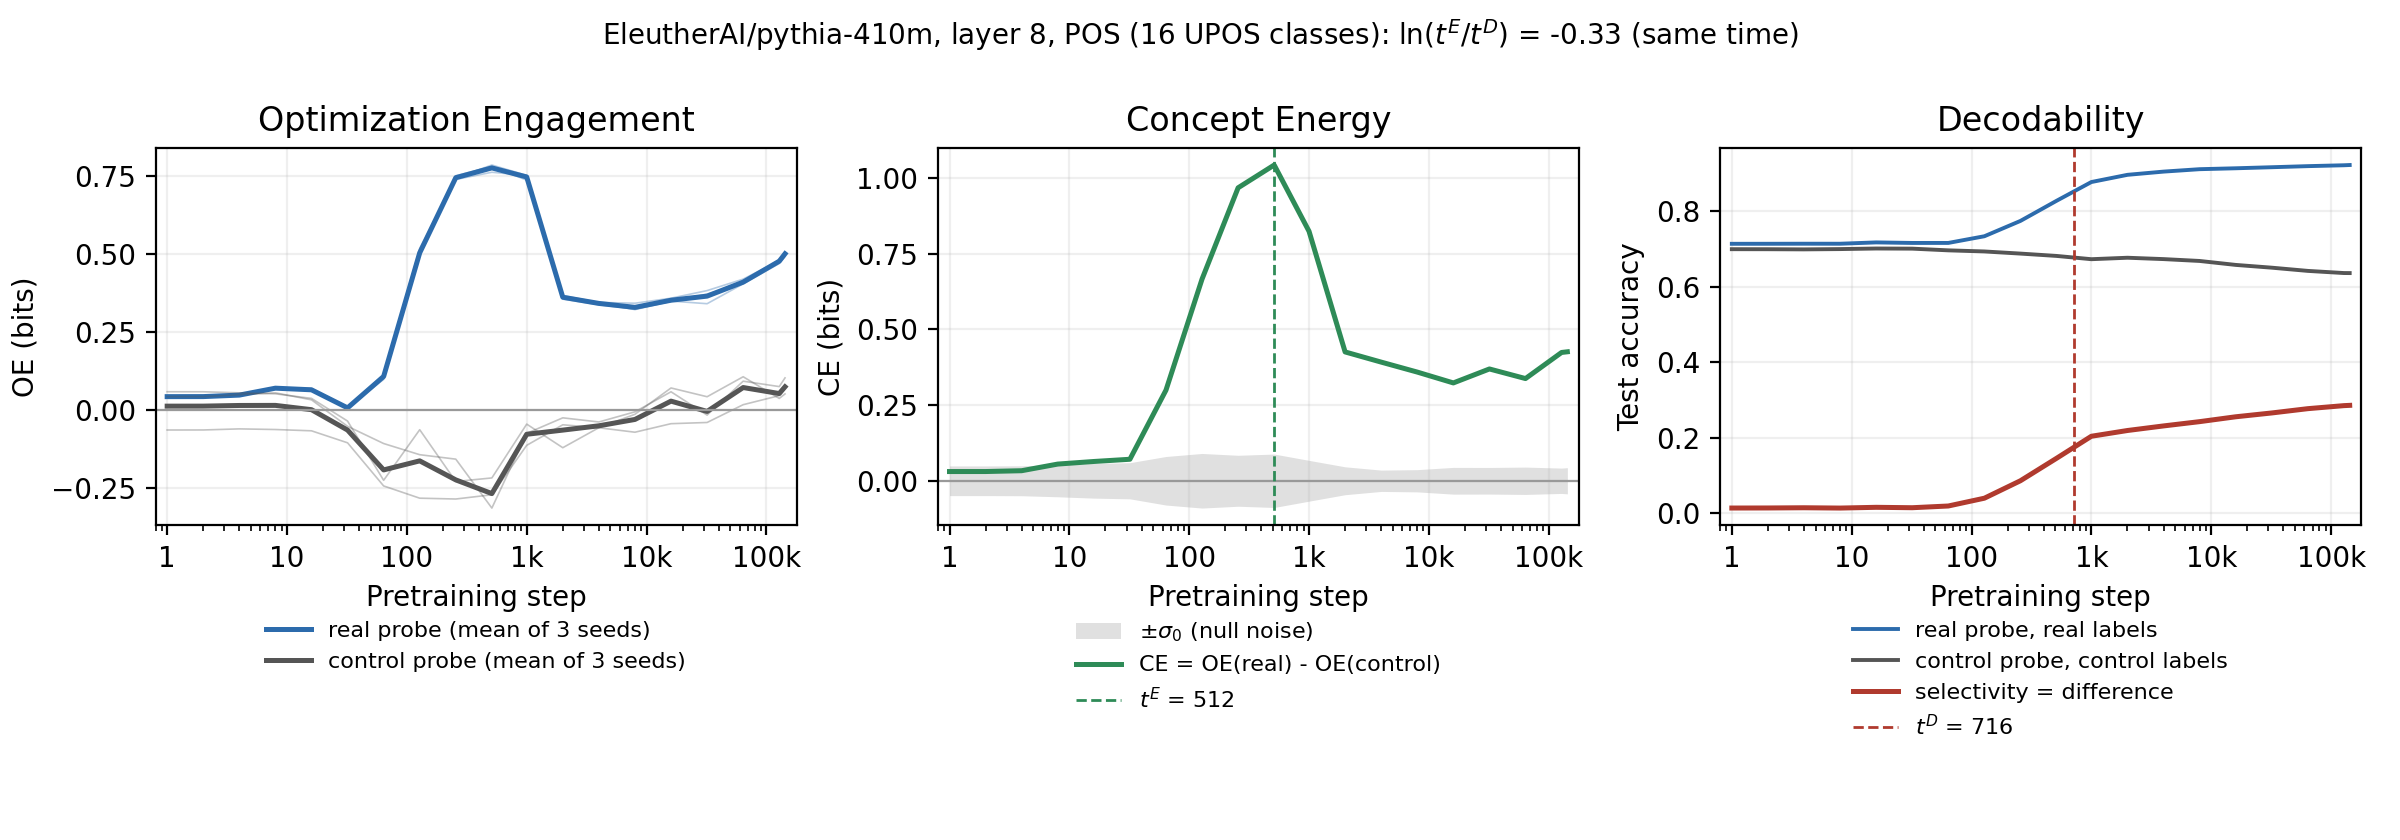
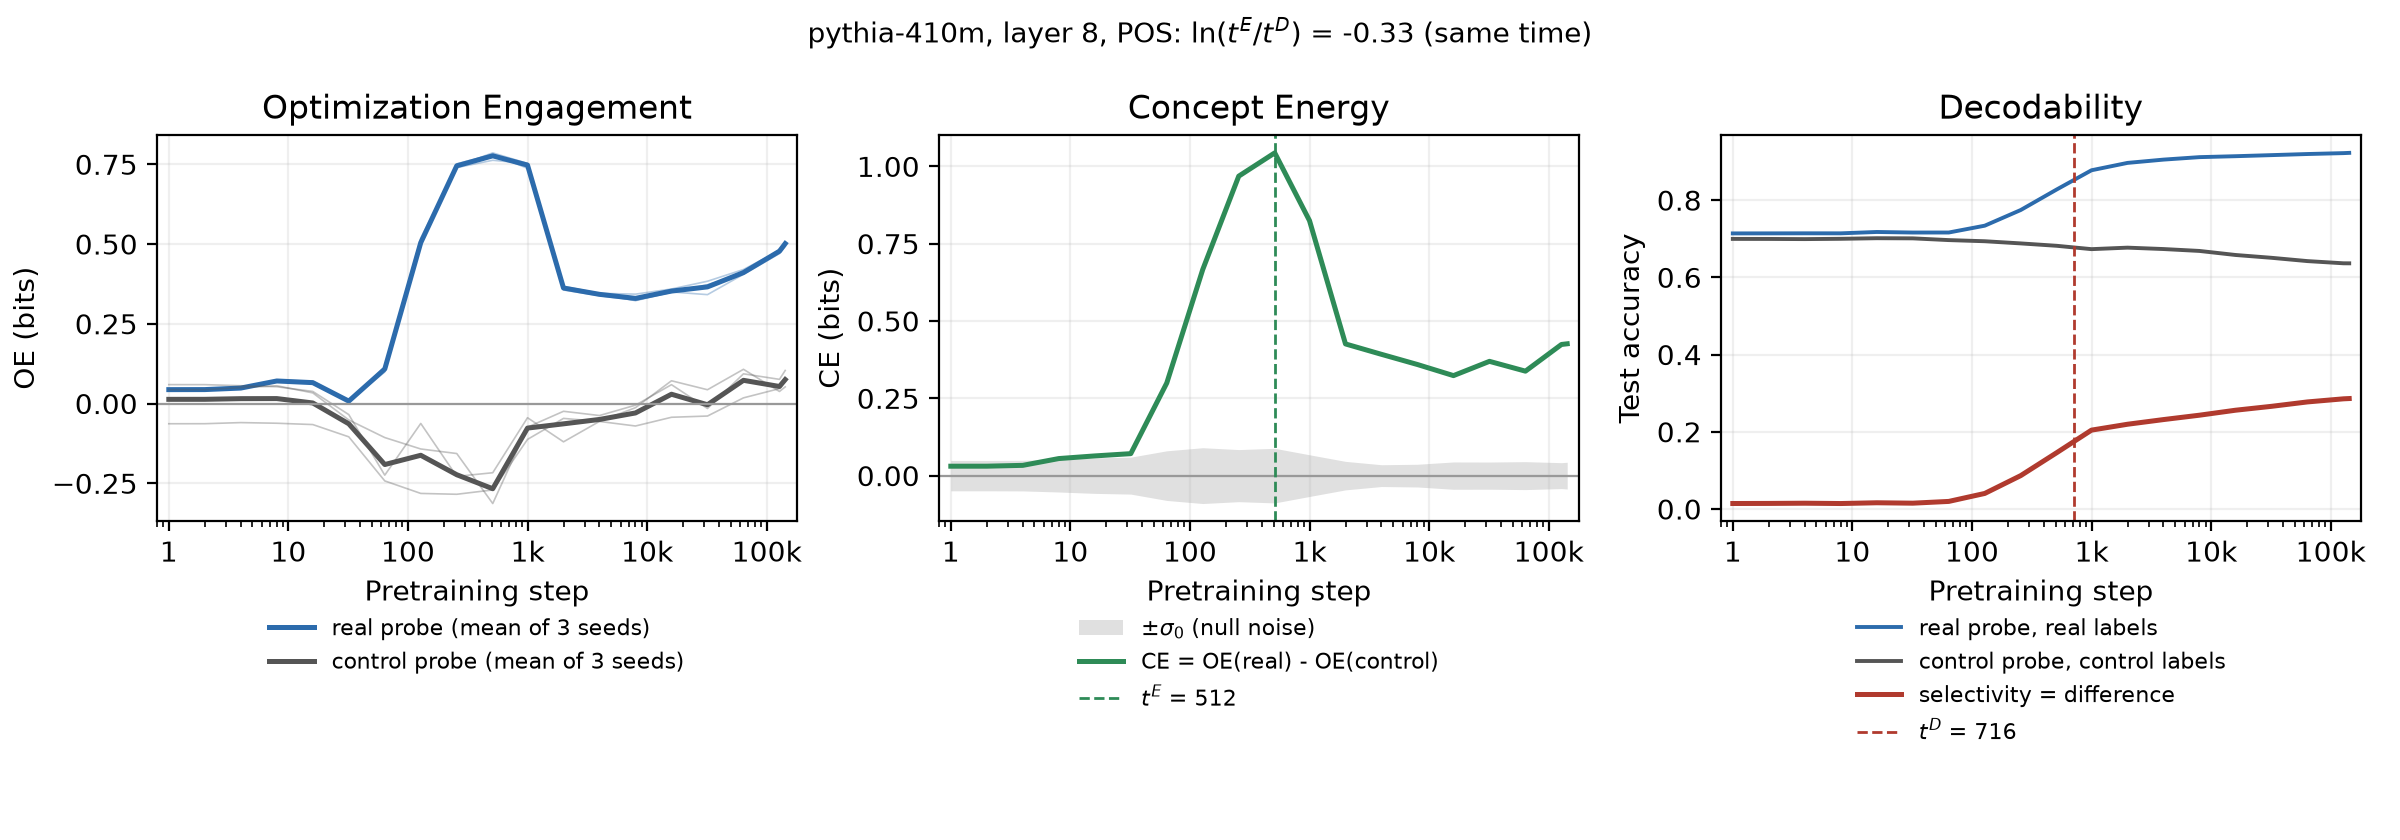
Update the README figure from the clean-environment run

diff --git a/README.md b/README.md
@@ -39,7 +39,7 @@ The same command runs any of the paper's 12 tasks:
 
 ```bash
 bash reproduce.sh TASK [LAYER] [MODEL]     # e.g. bash reproduce.sh trigram_pmi 12 pythia-1b
-bash reproduce.sh check                    # quick test: every task at layer 8, steps 512 and 143000 (~20 min)
+bash reproduce.sh check                    # quick test: every task at layer 8, steps 512 and 143000 (~20 min on an A100)
 bash reproduce.sh all [MODEL]              # all tasks x all layers x 19 checkpoints, plus the event-time figure
 ```
 
